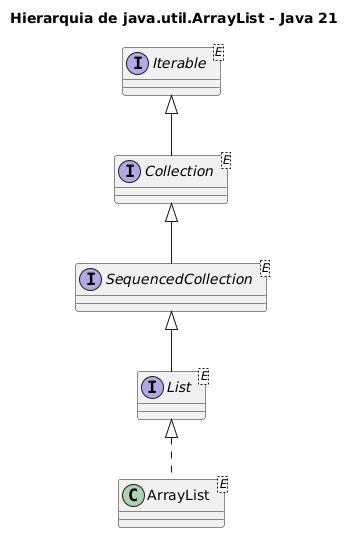
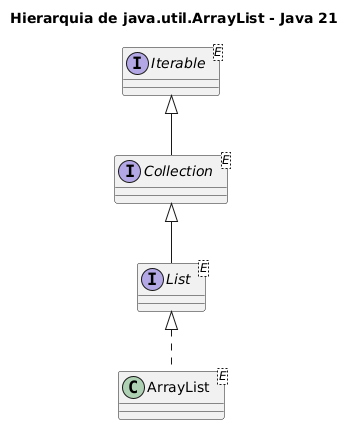
arraylist

Changed region(s): [[0.0312, 0.0, 0.966, 0.8106], [0.3428, 0.8406, 0.6544, 0.9908]]

diff --git a/subjects/poo/lectures/11-collections.md b/subjects/poo/lectures/11-collections.md
@@ -1,9 +1,9 @@
 ---
 marp: true
 theme: idp
-paginate: true
+paginate: false
 html: true
-footer: <span>Programação Orientada a Objetos</span><span>Collections Framework</span><span>Prof. Fabricio Santana</span>
+footer: <span>Programação Orientada a Objetos</span><span>Java Collections Framework</span><span>Prof. Fabricio Santana</span>
 ---
 
 <!-- _class: title -->
@@ -89,17 +89,15 @@ www.linkedin.com/in/fabriciofsantana/
 
 # _Java Collections Framework_: principais interfaces
 
-As interfaces são elementos centrais no uso do _collections framework_
+**As interfaces estão disponíveis no pacote `java.util`.**
 
 <img src="../images/11-interfaces.png">
 
 ---
 
-<!-- _class: compact -->
+# _Java Collections Framework_: principais interfaces
 
-# Principais interfaces do _collections framework_
-
-As interfaces estão disponíveis no pacote `java.util`
+**As interfaces garantem a flexibilidade do _collections framework_**
 
 <table class="tiny">
   <thead>
@@ -146,9 +144,15 @@ As interfaces estão disponíveis no pacote `java.util`
 
 ---
 
+# _Java Collections Framework_: principais classes
+
+<img src="../images/11-classes.png">
+
+---
+
 <!-- _class: compact -->
 
-# Principais classes do _collections framework_
+# _Java Collections Framework_: principais classes
 
 As classes do _collections framework_ estão disponíveis no pacote `java.util`.
 
@@ -182,6 +186,11 @@ As classes do _collections framework_ estão disponíveis no pacote `java.util`.
       <td>Conjunto ordenado, normalmente pela ordem natural dos elementos ou por um comparador.</td>
     </tr>
     <tr>
+      <td><code>ArrayDeque</code></td>
+      <td><code>Deque</code></td>
+      <td>Fila de duas pontas baseada em array redimensionável. Útil para filas e pilhas.</td>
+    </tr>
+    <tr>
       <td><code>HashMap</code></td>
       <td><code>Map</code></td>
       <td>Mapa baseado em tabela hash. Associa chaves a valores e não garante ordem.</td>
@@ -191,42 +200,104 @@ As classes do _collections framework_ estão disponíveis no pacote `java.util`.
       <td><code>SortedMap</code></td>
       <td>Mapa ordenado pelas chaves, usando ordem natural ou um comparador.</td>
     </tr>
+  </tbody>
+</table>
+
+---
+
+# _Java Collections Framework_: critérios de escolha
+
+Considere os seguintes critérios:
+
+- **Ordenação**: precisa manter a ordem dos elementos?
+- **Duplicidade**: pode haver elementos duplicados?
+- **Eficiência**: necessidade de acesso rápido por índice?
+- **Alteração**: muitas inserções e remoções no meio da coleção?
+- **Modelo**: modelo de fila (FIFO) ou pilha (LIFO)?
+- **Estrutura**: precisa associar chave-valor?
+
+---
+
+# _Java Collections Framework_: qual escolher?
+
+<table class="tiny">
+  <thead>
     <tr>
-      <td><code>ArrayDeque</code></td>
+      <th>Necessidade</th>
+      <th>Interface</th>
+      <th>Implementação</th>
+      <th>Critério de escolha</th>
+    </tr>
+  </thead>
+  <tbody>
+    <tr>
+      <td>Lista ordenada por posição</td>
+      <td><code>List</code></td>
+      <td><code>ArrayList</code></td>
+      <td>boa escolha padrão; acesso por índice eficiente.</td>
+    </tr>
+    <tr>
+      <td>Lista com operações nas extremidades</td>
+      <td><code>List</code> / <code>Deque</code></td>
+      <td><code>LinkedList</code></td>
+      <td>útil para inserir/remover no início ou no fim.</td>
+    </tr>
+    <tr>
+      <td>Conjunto sem repetição</td>
+      <td><code>Set</code></td>
+      <td><code>HashSet</code></td>
+      <td>não garante ordem; busca e inserção tendem a ser eficientes.</td>
+    </tr>
+    <tr>
+      <td>Conjunto sem repetição em ordem de inserção</td>
+      <td><code>SequencedSet</code></td>
+      <td><code>LinkedHashSet</code></td>
+      <td>preserva a ordem em que os elementos foram adicionados.</td>
+    </tr>
+    <tr>
+      <td>Conjunto sem repetição ordenado</td>
+      <td><code>SortedSet</code></td>
+      <td><code>TreeSet</code></td>
+      <td>mantém elementos ordenados por ordem natural ou comparador.</td>
+    </tr>
+    <tr>
+      <td>Fila ou pilha</td>
       <td><code>Deque</code></td>
-      <td>Fila de duas pontas baseada em array redimensionável. Útil para filas e pilhas.</td>
+      <td><code>ArrayDeque</code></td>
+      <td>boa opção para FIFO, LIFO e operações nas duas pontas.</td>
+    </tr>
+    <tr>
+      <td>Associação chave-valor</td>
+      <td><code>Map</code></td>
+      <td><code>HashMap</code></td>
+      <td>acesso por chave sem garantia de ordem.</td>
+    </tr>
+    <tr>
+      <td>Mapa ordenado por chave</td>
+      <td><code>SortedMap</code></td>
+      <td><code>TreeMap</code></td>
+      <td>mantém chaves em ordem natural ou por comparador.</td>
     </tr>
   </tbody>
 </table>
 
 ---
 
-# Qual coleção escolher?
-
-<div class="callout">
-
-**Critérios**
-
-- Requisitos de memória
-- Desempenho em operações de adicionar, remover, ordenar e procurar elementos
-
-</div>
-
----
-
 # java.util.ArrayList: hierarquia
 
-<div class="columns small">
+<div class="columns">
 <div>
 
-<img src="../images/11-arraylist.png" >
+<img src="../images/11-arraylist-hierarchy.png" >
 
 </div>
 <div>
 
 - Estrutura de dados semelhante a um array que pode ser redimensionado dinamicamente
-- armazena referências a objetos de um tipo
-- o tipo pode ser definido na declaração (_generics_), viabilizando a verificação de tipo em tempo de compilação
+- Armazena referências a objetos de um tipo
+- Coleção genérica (_generics_)
+  - o tipo pode ser definido na declaração
+  - viabiliza a verificação de tipo em tempo de compilação
 
 </div>
 </div>
@@ -247,7 +318,6 @@ As classes do _collections framework_ estão disponíveis no pacote `java.util`.
 
 - `Iterable`: permite percorrer elementos com <code>for-each</code>.
 - `Collection`: contrato básico para grupos de objetos.
-- `SequencedCollection`: representa coleções com ordem definida e operações nas duas extremidades.
 - `List`: coleção ordenada por posição, com elementos repetidos.
 - `ArrayList`: lista concreta baseada em array redimensionável.
 
@@ -271,8 +341,6 @@ As classes do _collections framework_ estão disponíveis no pacote `java.util`.
 - `isEmpty()`: indica se a lista está vazia.
 - `clear()`: remove todos os elementos da lista.
 - `getFirst()` / `getLast()`: acessa o primeiro ou o último elemento da lista.
-
-<div class="source">Fonte: <a href="https://docs.oracle.com/en/java/javase/21/docs/api/java.base/java/util/ArrayList.html">Oracle Java SE 21 - ArrayList</a></div>
 
 ---
 
@@ -303,8 +371,12 @@ System.out.println(alunos.get(1)); //João
 alunos.set(0, "Maria");
 System.out.println(alunos); //[Maria, João]
 
+System.out.println(alunos.size()); // 2
+
 alunos.remove(1);
 System.out.println(alunos); //[Maria]
+
+System.out.println(alunos.size()); // 1
 ```
 
 </div>
